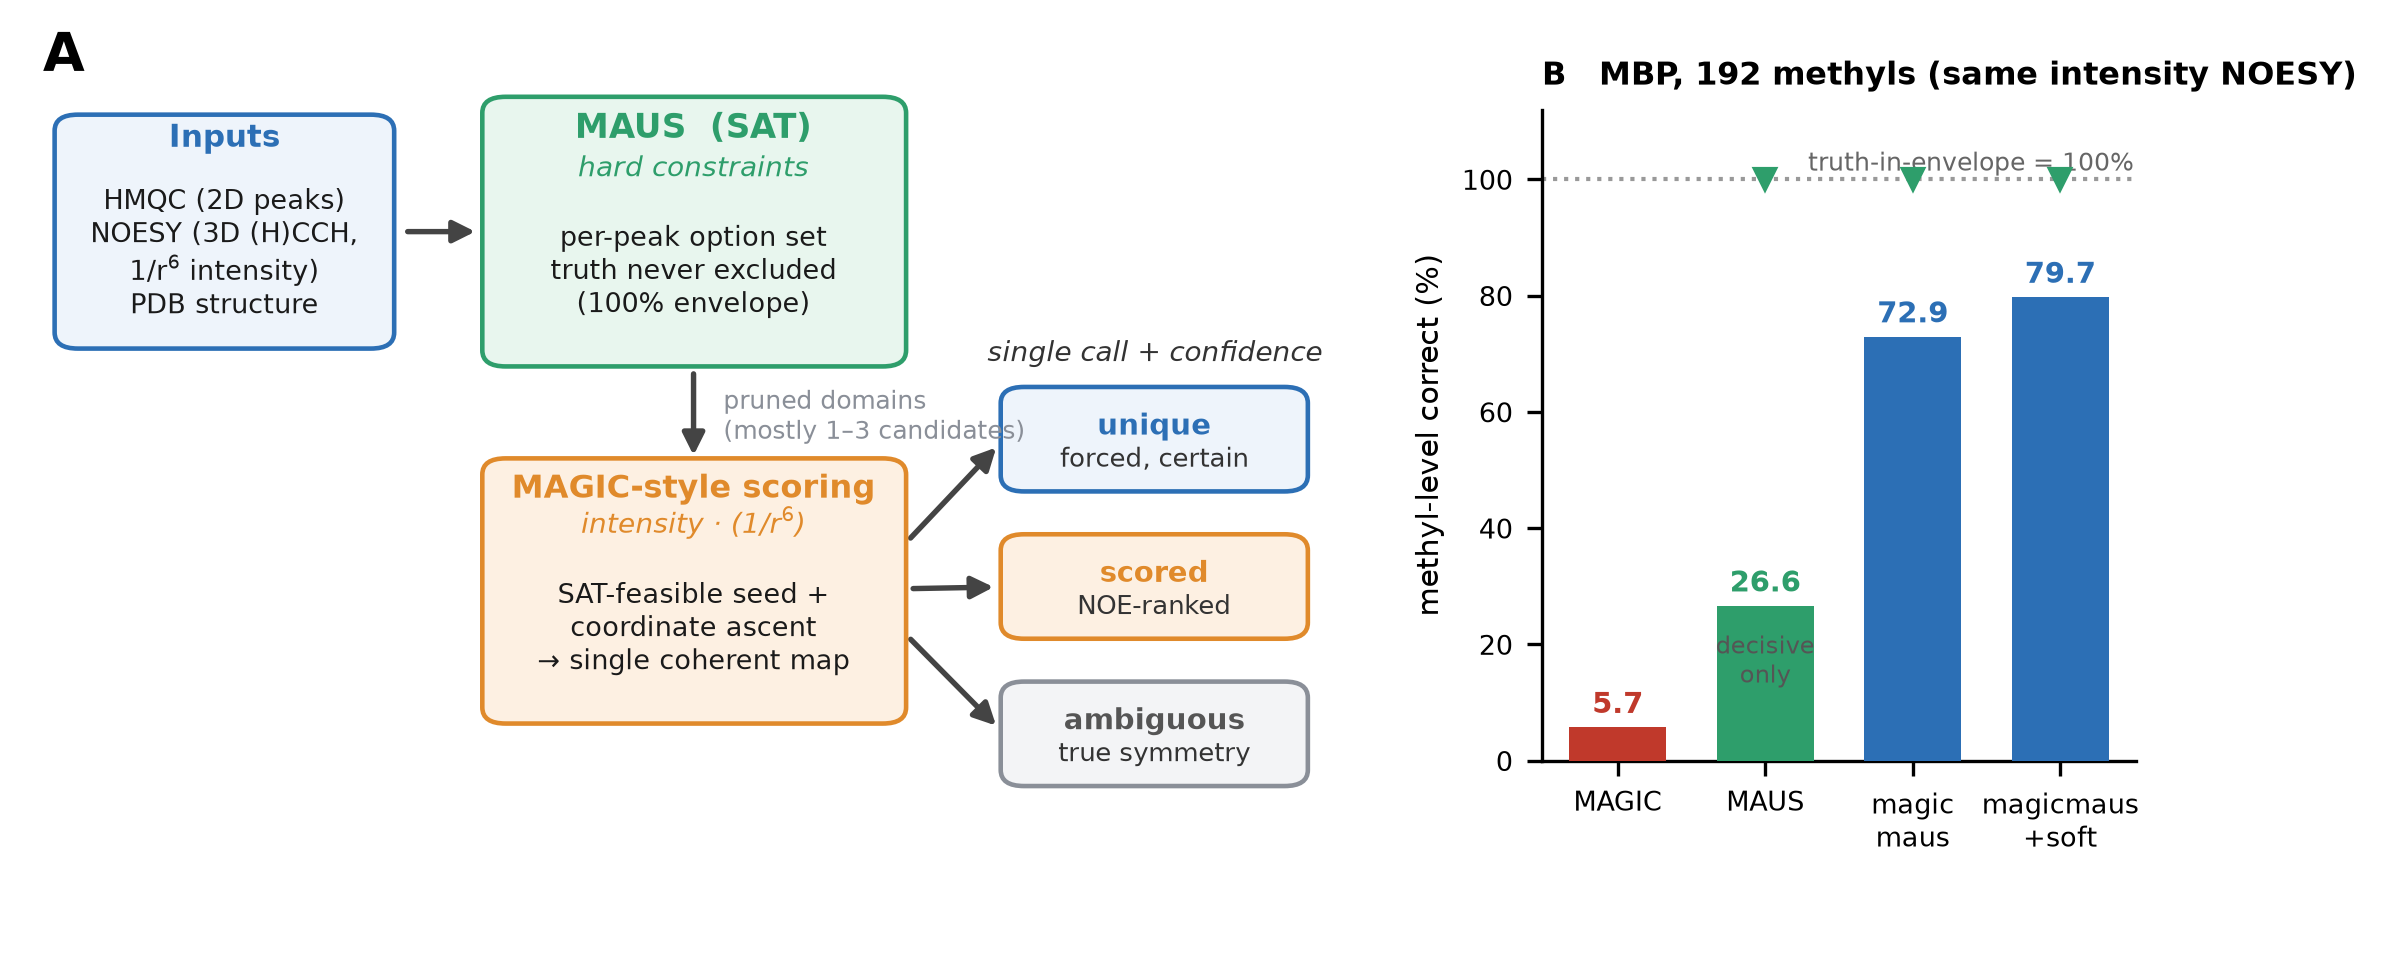
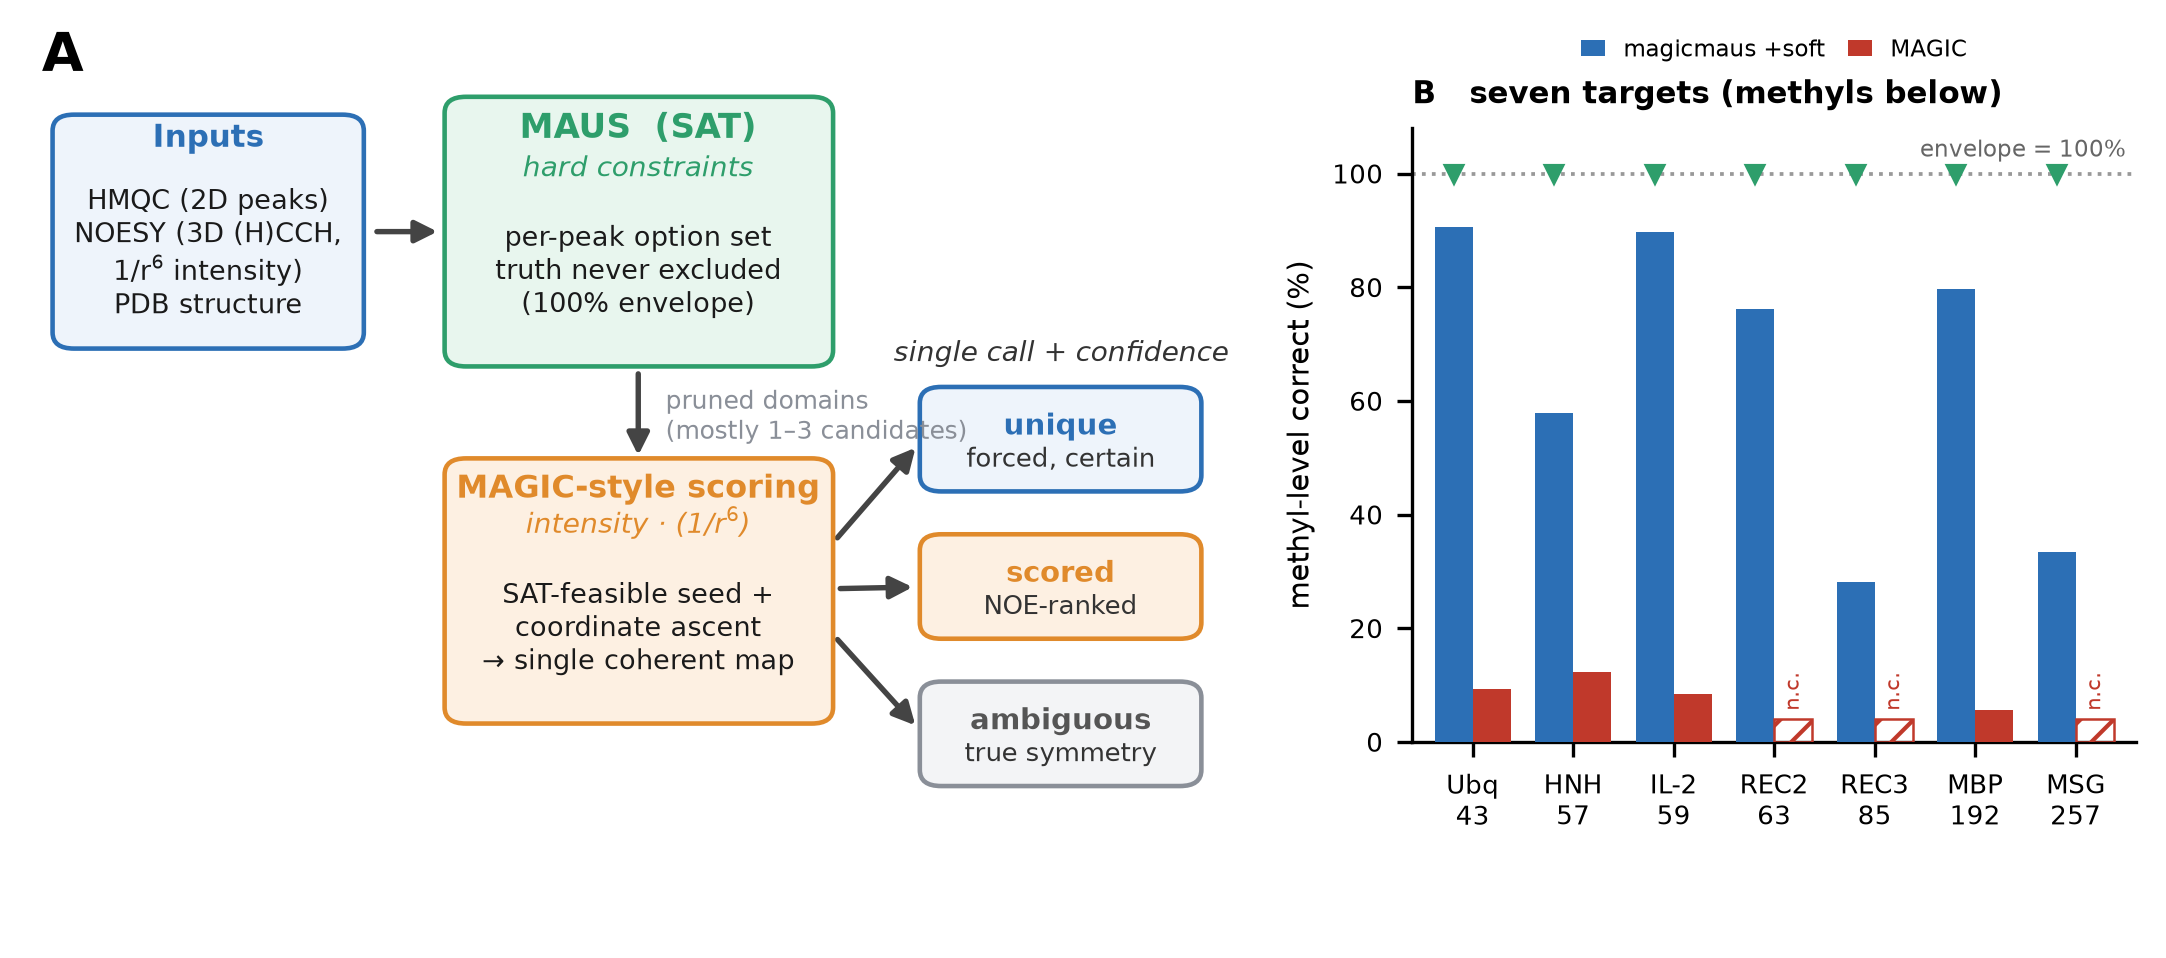
Update Figure 1B to the seven-target benchmark
Replace the MBP-only accuracy bars with a seven-target panel: magicmaus (+soft)
vs full-space MAGIC across ubiquitin, the Cas9 domains, MBP and MSG (ordered by
methyl count), with the 100% never-exclude envelope marked on each and MAGIC's
non-convergent targets hatched (n.c.). Caption updated to match; docx regenerated.

diff --git a/make_figure.py b/make_figure.py
@@ -7,8 +7,8 @@ from matplotlib.patches import FancyBboxPatch, FancyArrowPatch
 plt.rcParams.update({'font.family': 'DejaVu Sans', 'font.size': 8})
 
 fig = plt.figure(figsize=(7.2, 3.1), dpi=300)
-gsA = fig.add_axes([0.015, 0.02, 0.60, 0.96]); gsA.axis('off'); gsA.set_xlim(0, 10); gsA.set_ylim(0, 10)
-axB = fig.add_axes([0.715, 0.20, 0.275, 0.70])
+gsA = fig.add_axes([0.015, 0.02, 0.55, 0.96]); gsA.axis('off'); gsA.set_xlim(0, 10); gsA.set_ylim(0, 10)
+axB = fig.add_axes([0.655, 0.22, 0.335, 0.66])
 
 BLUE, GREEN, ORANGE, GREY, RED = '#2c6fb5', '#2e9e6b', '#e08a2b', '#8a8f98', '#c0392b'
 
@@ -60,27 +60,41 @@ tierbox(gsA, 7.55, 3.30, 2.25, 1.05, 'scored', 'NOE-ranked', '#fdf0e2', ORANGE, 
 tierbox(gsA, 7.55, 1.65, 2.25, 1.05, 'ambiguous', 'true symmetry', '#f3f4f6', GREY, '#555')
 arrow(gsA, 6.75, 4.3, 7.5, 5.45); arrow(gsA, 6.75, 3.8, 7.5, 3.82); arrow(gsA, 6.75, 3.3, 7.5, 2.2)
 
-# --- Panel B: MBP benchmark (same intensity NOESY) ---
-labels = ['MAGIC', 'MAUS', 'magic\nmaus', 'magicmaus\n+soft']
-acc = [5.7, 26.6, 72.9, 79.7]
-cols = [RED, GREEN, BLUE, BLUE]
-env = [None, 100, 100, 100]
-x = range(len(labels))
-axB.bar(x, acc, color=cols, width=0.66, zorder=3)
-for i, v in enumerate(acc):
-  axB.text(i, v + 2.5, f'{v:.1f}', ha='center', fontsize=7, weight='bold', color=cols[i])
-# envelope markers
-axB.axhline(100, ls=':', lw=1.0, color='#999', zorder=1)
-axB.text(len(labels) - 0.5, 101.5, 'truth-in-envelope = 100%', ha='right', fontsize=6.0, color='#666')
-for i, e in enumerate(env):
-  if e:
-    axB.plot(i, 100, marker='v', ms=5, color='#2e9e6b', zorder=4)
-axB.text(1, 22, 'decisive\nonly', ha='center', va='top', fontsize=5.8, color='#555')
-axB.set_ylim(0, 112); axB.set_xticks(list(x)); axB.set_xticklabels(labels, fontsize=6.6)
-axB.set_ylabel('methyl-level correct (%)', fontsize=7.2)
-axB.set_title('B   MBP, 192 methyls (same intensity NOESY)', fontsize=7.6, weight='bold', loc='left')
+# --- Panel B: seven-target benchmark (same intensity NOESY) ---
+# (target, methyls, MAGIC%, magicmaus+soft%, MAGIC-converged)
+DATA = [
+  ('Ubq', 43, 9.3, 90.7, True),
+  ('HNH', 57, 12.3, 57.9, True),
+  ('IL-2', 59, 8.5, 89.8, True),
+  ('REC2', 63, None, 76.2, False),
+  ('REC3', 85, None, 28.2, False),
+  ('MBP', 192, 5.7, 79.7, True),
+  ('MSG', 257, None, 33.5, False),
+]
+x = range(len(DATA))
+w = 0.38
+for i, (_lab, _n, mg, mm, conv) in enumerate(DATA):
+  axB.bar(i - w / 2, mm, width=w, color=BLUE, zorder=3)
+  if conv:
+    axB.bar(i + w / 2, mg, width=w, color=RED, zorder=3)
+  else:
+    axB.bar(i + w / 2, 4.0, width=w, color='none', edgecolor=RED, hatch='///', lw=0.6, zorder=3)
+    axB.text(i + w / 2, 5.5, 'n.c.', ha='center', fontsize=5.0, color=RED, rotation=90, va='bottom')
+  axB.plot(i - w / 2, 100, marker='v', ms=4, color=GREEN, zorder=4)
+axB.axhline(100, ls=':', lw=0.9, color='#999', zorder=1)
+axB.text(len(DATA) - 0.5, 103, 'envelope = 100%', ha='right', fontsize=5.6, color='#666')
+# legend
+axB.bar(-9, 0, color=BLUE, label='magicmaus +soft')
+axB.bar(-9, 0, color=RED, label='MAGIC')
+axB.legend(loc='upper center', fontsize=5.6, frameon=False, ncol=2,
+           bbox_to_anchor=(0.5, 1.18), handlelength=1.0, columnspacing=1.0)
+axB.set_ylim(0, 108); axB.set_xlim(-0.6, len(DATA) - 0.4)
+axB.set_xticks(list(x))
+axB.set_xticklabels([f'{lab}\n{n}' for (lab, n, *_ ) in DATA], fontsize=5.6)
+axB.set_ylabel('methyl-level correct (%)', fontsize=7.0)
+axB.set_title('B   seven targets (methyls below)', fontsize=7.4, weight='bold', loc='left')
 axB.spines[['top', 'right']].set_visible(False)
-axB.tick_params(labelsize=6.6)
+axB.tick_params(labelsize=6.2)
 
 fig.savefig('figure1.png', dpi=300, bbox_inches='tight', facecolor='white')
 print('wrote figure1.png')

diff --git a/manuscript.md b/manuscript.md
@@ -264,7 +264,8 @@ prunes candidates from up to ~60 to 1–3; an intensity-weighted NOE score
 (MAGIC-style), applied only within those bounds via a SAT-feasible seed and
 feasibility-preserving coordinate ascent, commits to a single coherent map with a
 per-peak confidence tier (unique / scored / ambiguous). (**B**) Methyl-level
-accuracy on maltose-binding protein (192 methyls), all engines scored on the same
-1/r^6^ intensity NOESY. MAUS is decisive on 26.6% of peaks (rest abstain); MAGIC
-and magicmaus commit on all 192. Green markers denote the 100% truth-in-envelope
-guarantee, preserved by MAUS and magicmaus.](figure1.png)
+accuracy across the seven benchmark targets (43–257 methyls, ordered by size),
+all engines scored on the same 1/r^6^ intensity NOESY: magicmaus (+soft, blue)
+versus full-space MAGIC (red; hatched *n.c.* where scoring did not converge within
+a 15-min budget). Green markers denote the 100% truth-in-envelope guarantee,
+preserved on every target.](figure1.png)